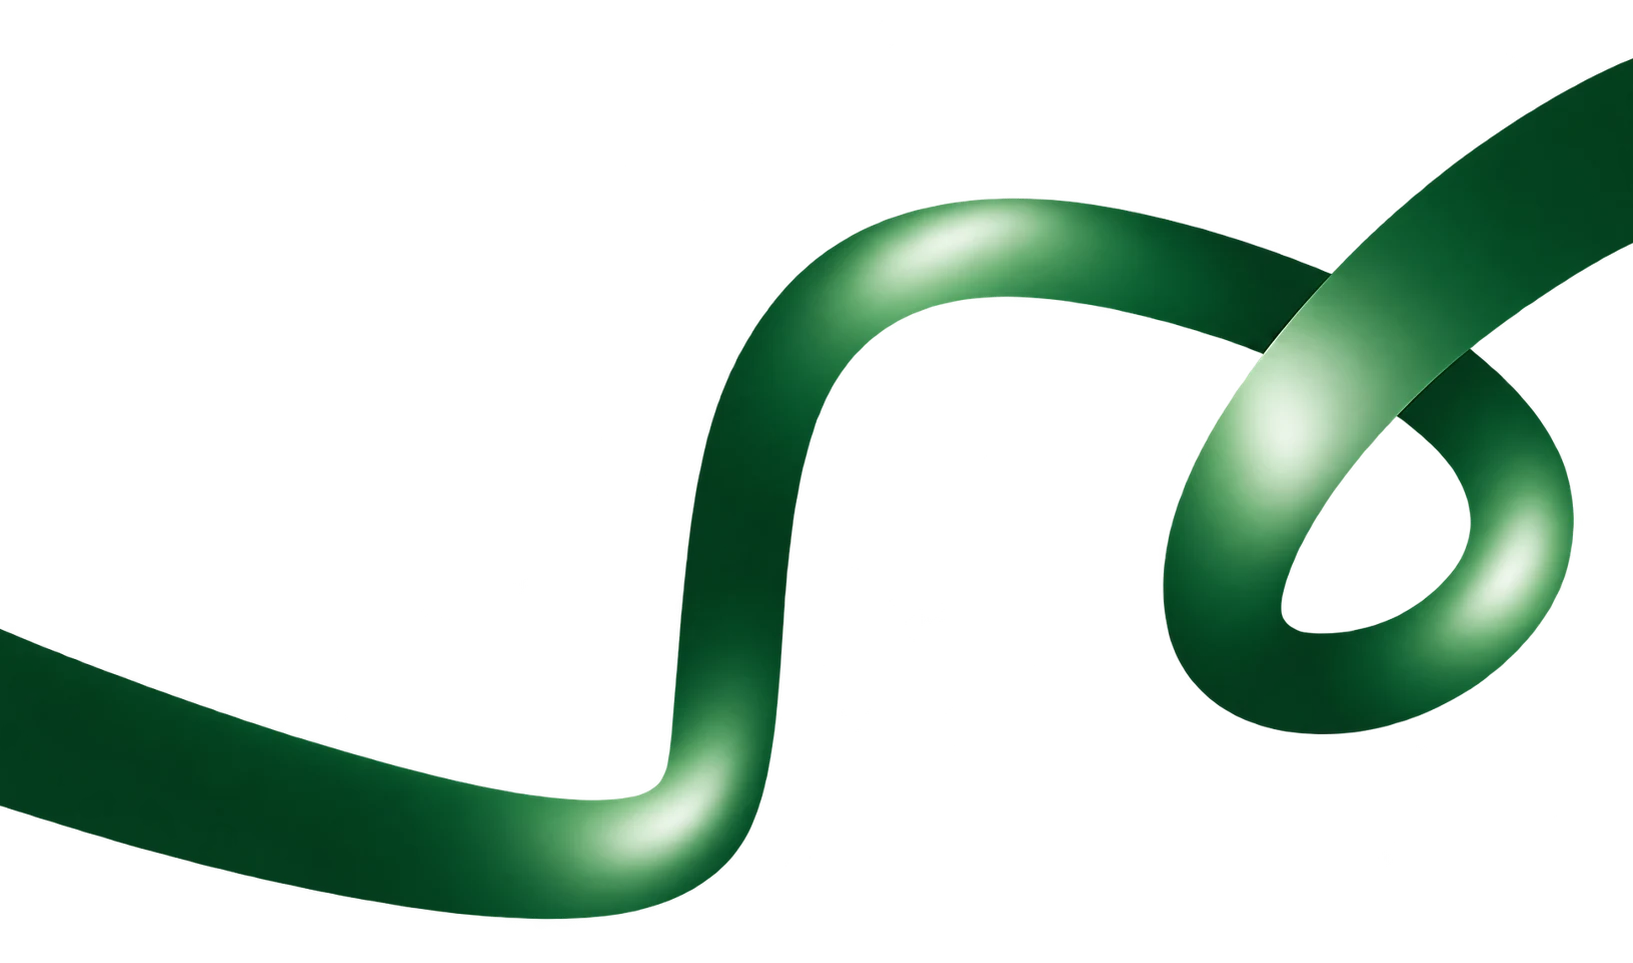
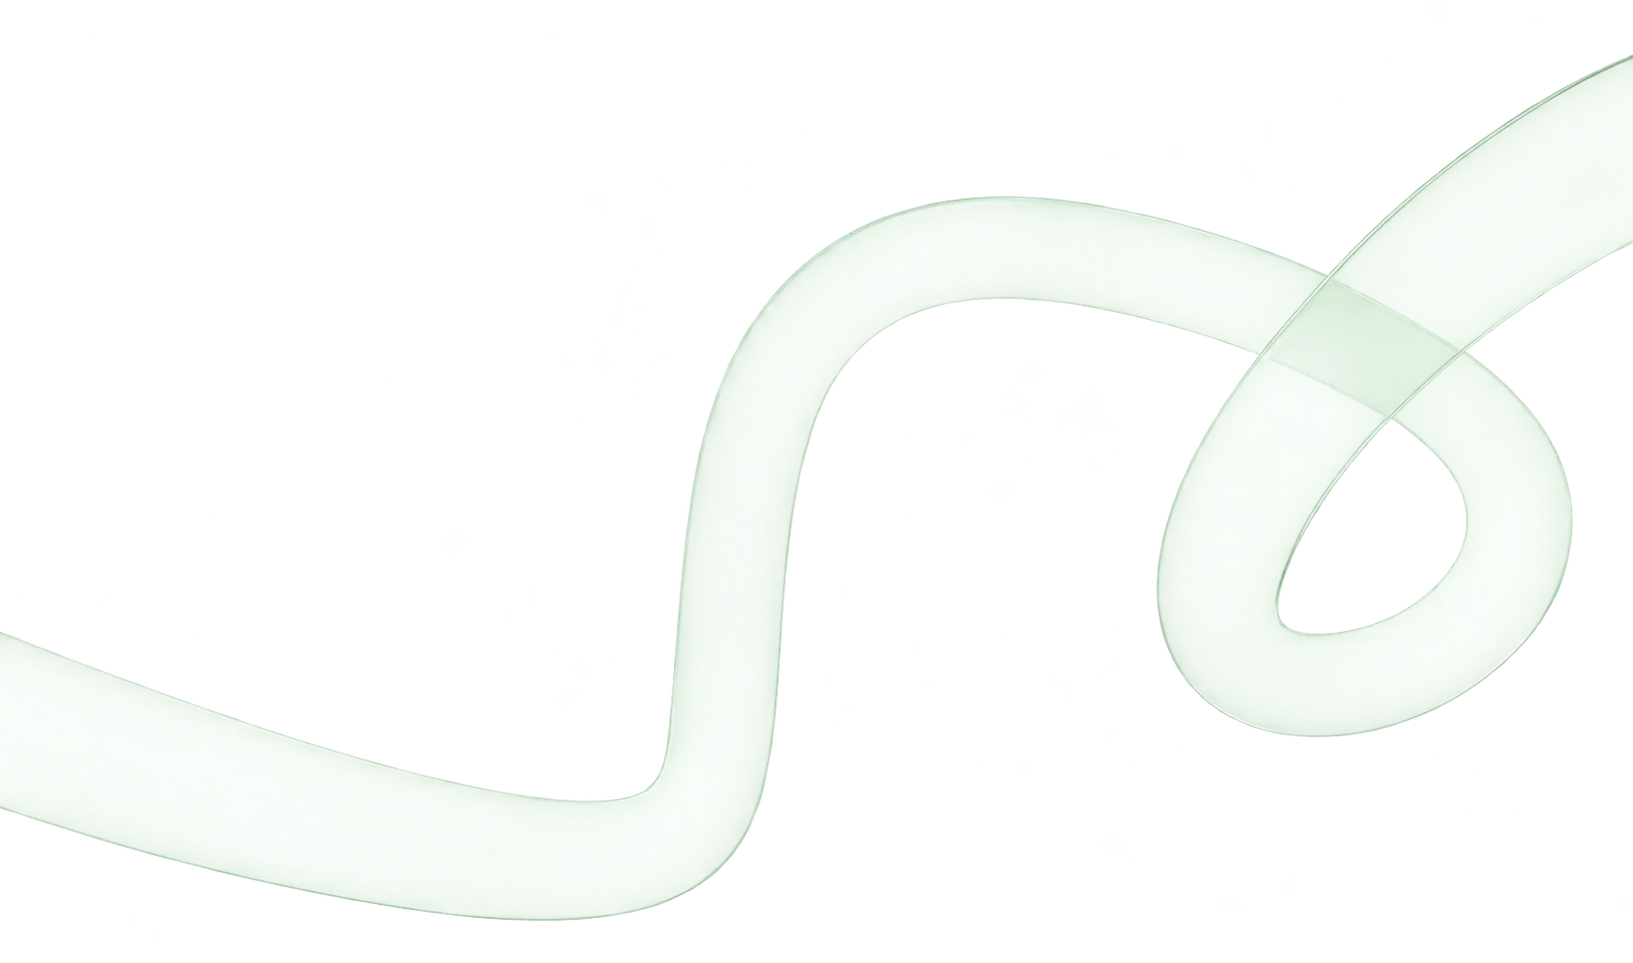
Home: replace about ribbon with light glass version
Claude-Session: https://claude.ai/code/session_01Q8SfPFzKec2UT1Fop63zbA

Changed region(s): [[0.0, 0.0312, 1.0, 0.9657]]

diff --git a/index.html b/index.html
@@ -7430,7 +7430,7 @@ input, select, textarea {
           <path class="abr-mask" pathLength="1" d="M -40 705 C 200 770, 480 815, 640 800 C 720 790, 735 700, 745 560 C 760 380, 800 230, 1000 220 C 1150 215, 1290 275, 1360 305 C 1440 345, 1560 430, 1520 540 C 1480 640, 1330 690, 1250 640 C 1190 600, 1210 470, 1290 380 C 1400 255, 1520 150, 1700 50"/>
         </mask>
       </defs>
-      <image href="assets/about-ribbon.webp" width="1633" height="963" mask="url(#abr-m)"/>
+      <image href="assets/about-ribbon.webp?v=2" width="1633" height="963" mask="url(#abr-m)"/>
     </svg>
 
     <div class="abr-inner">
